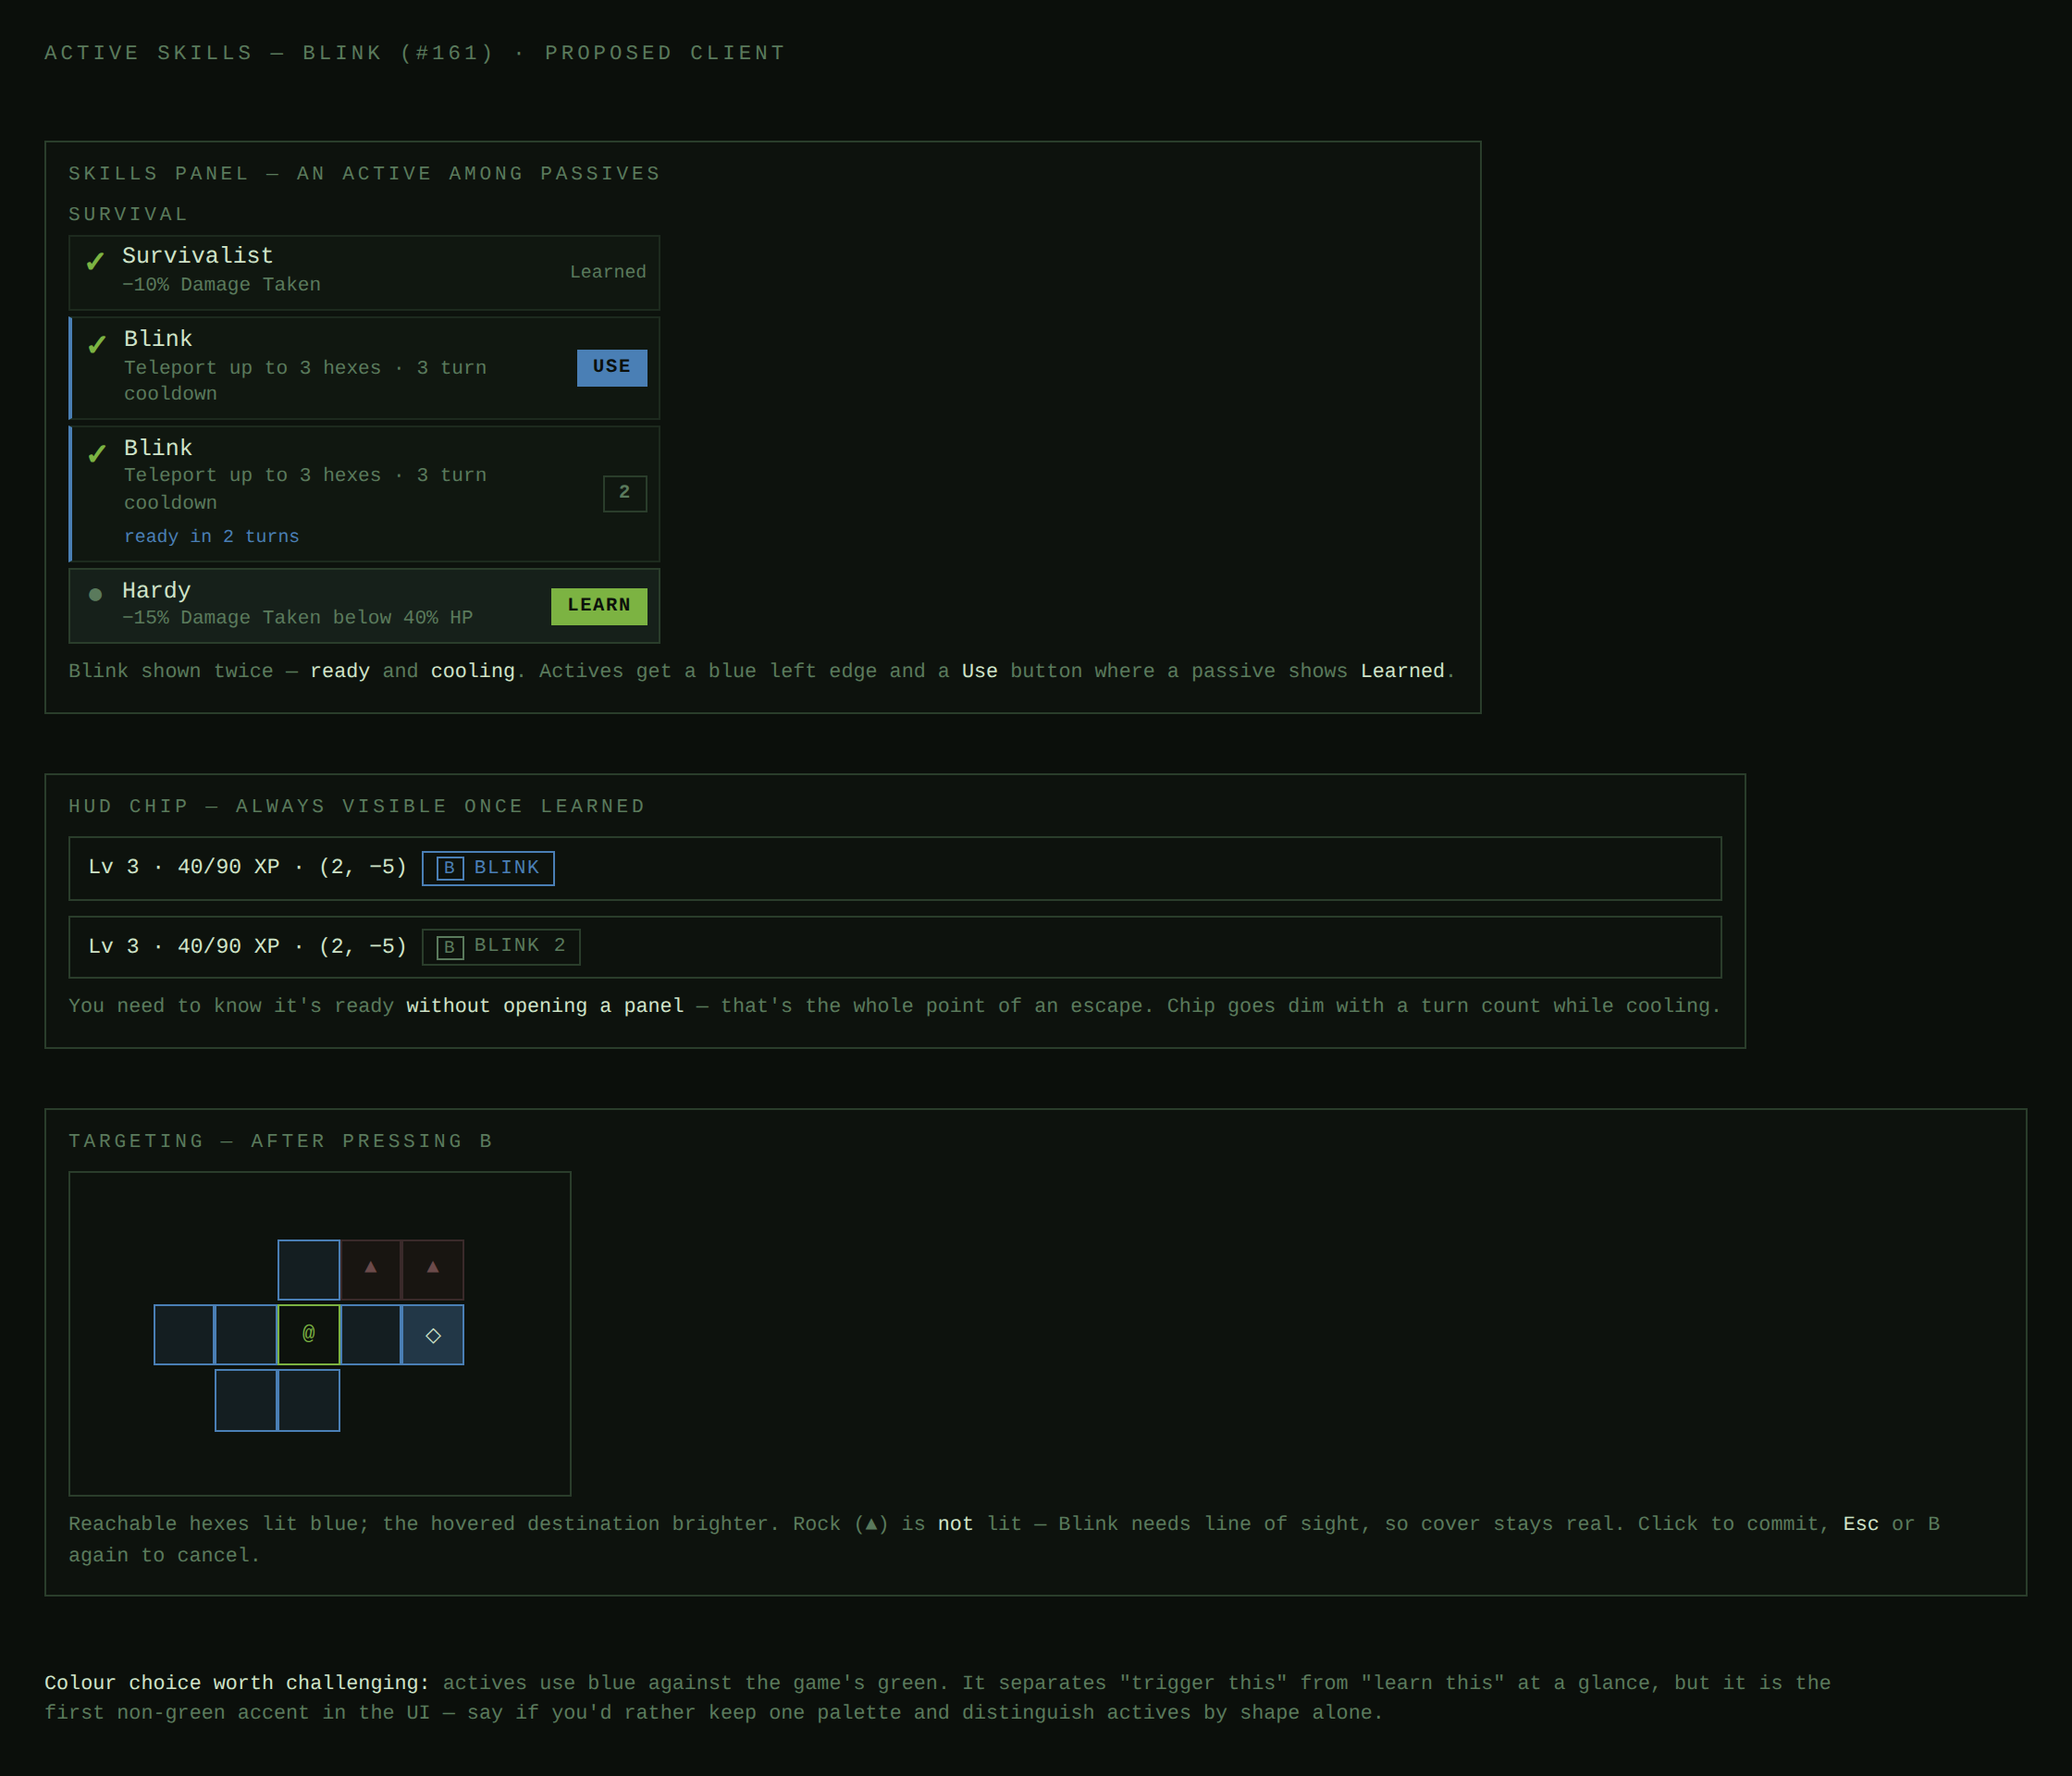
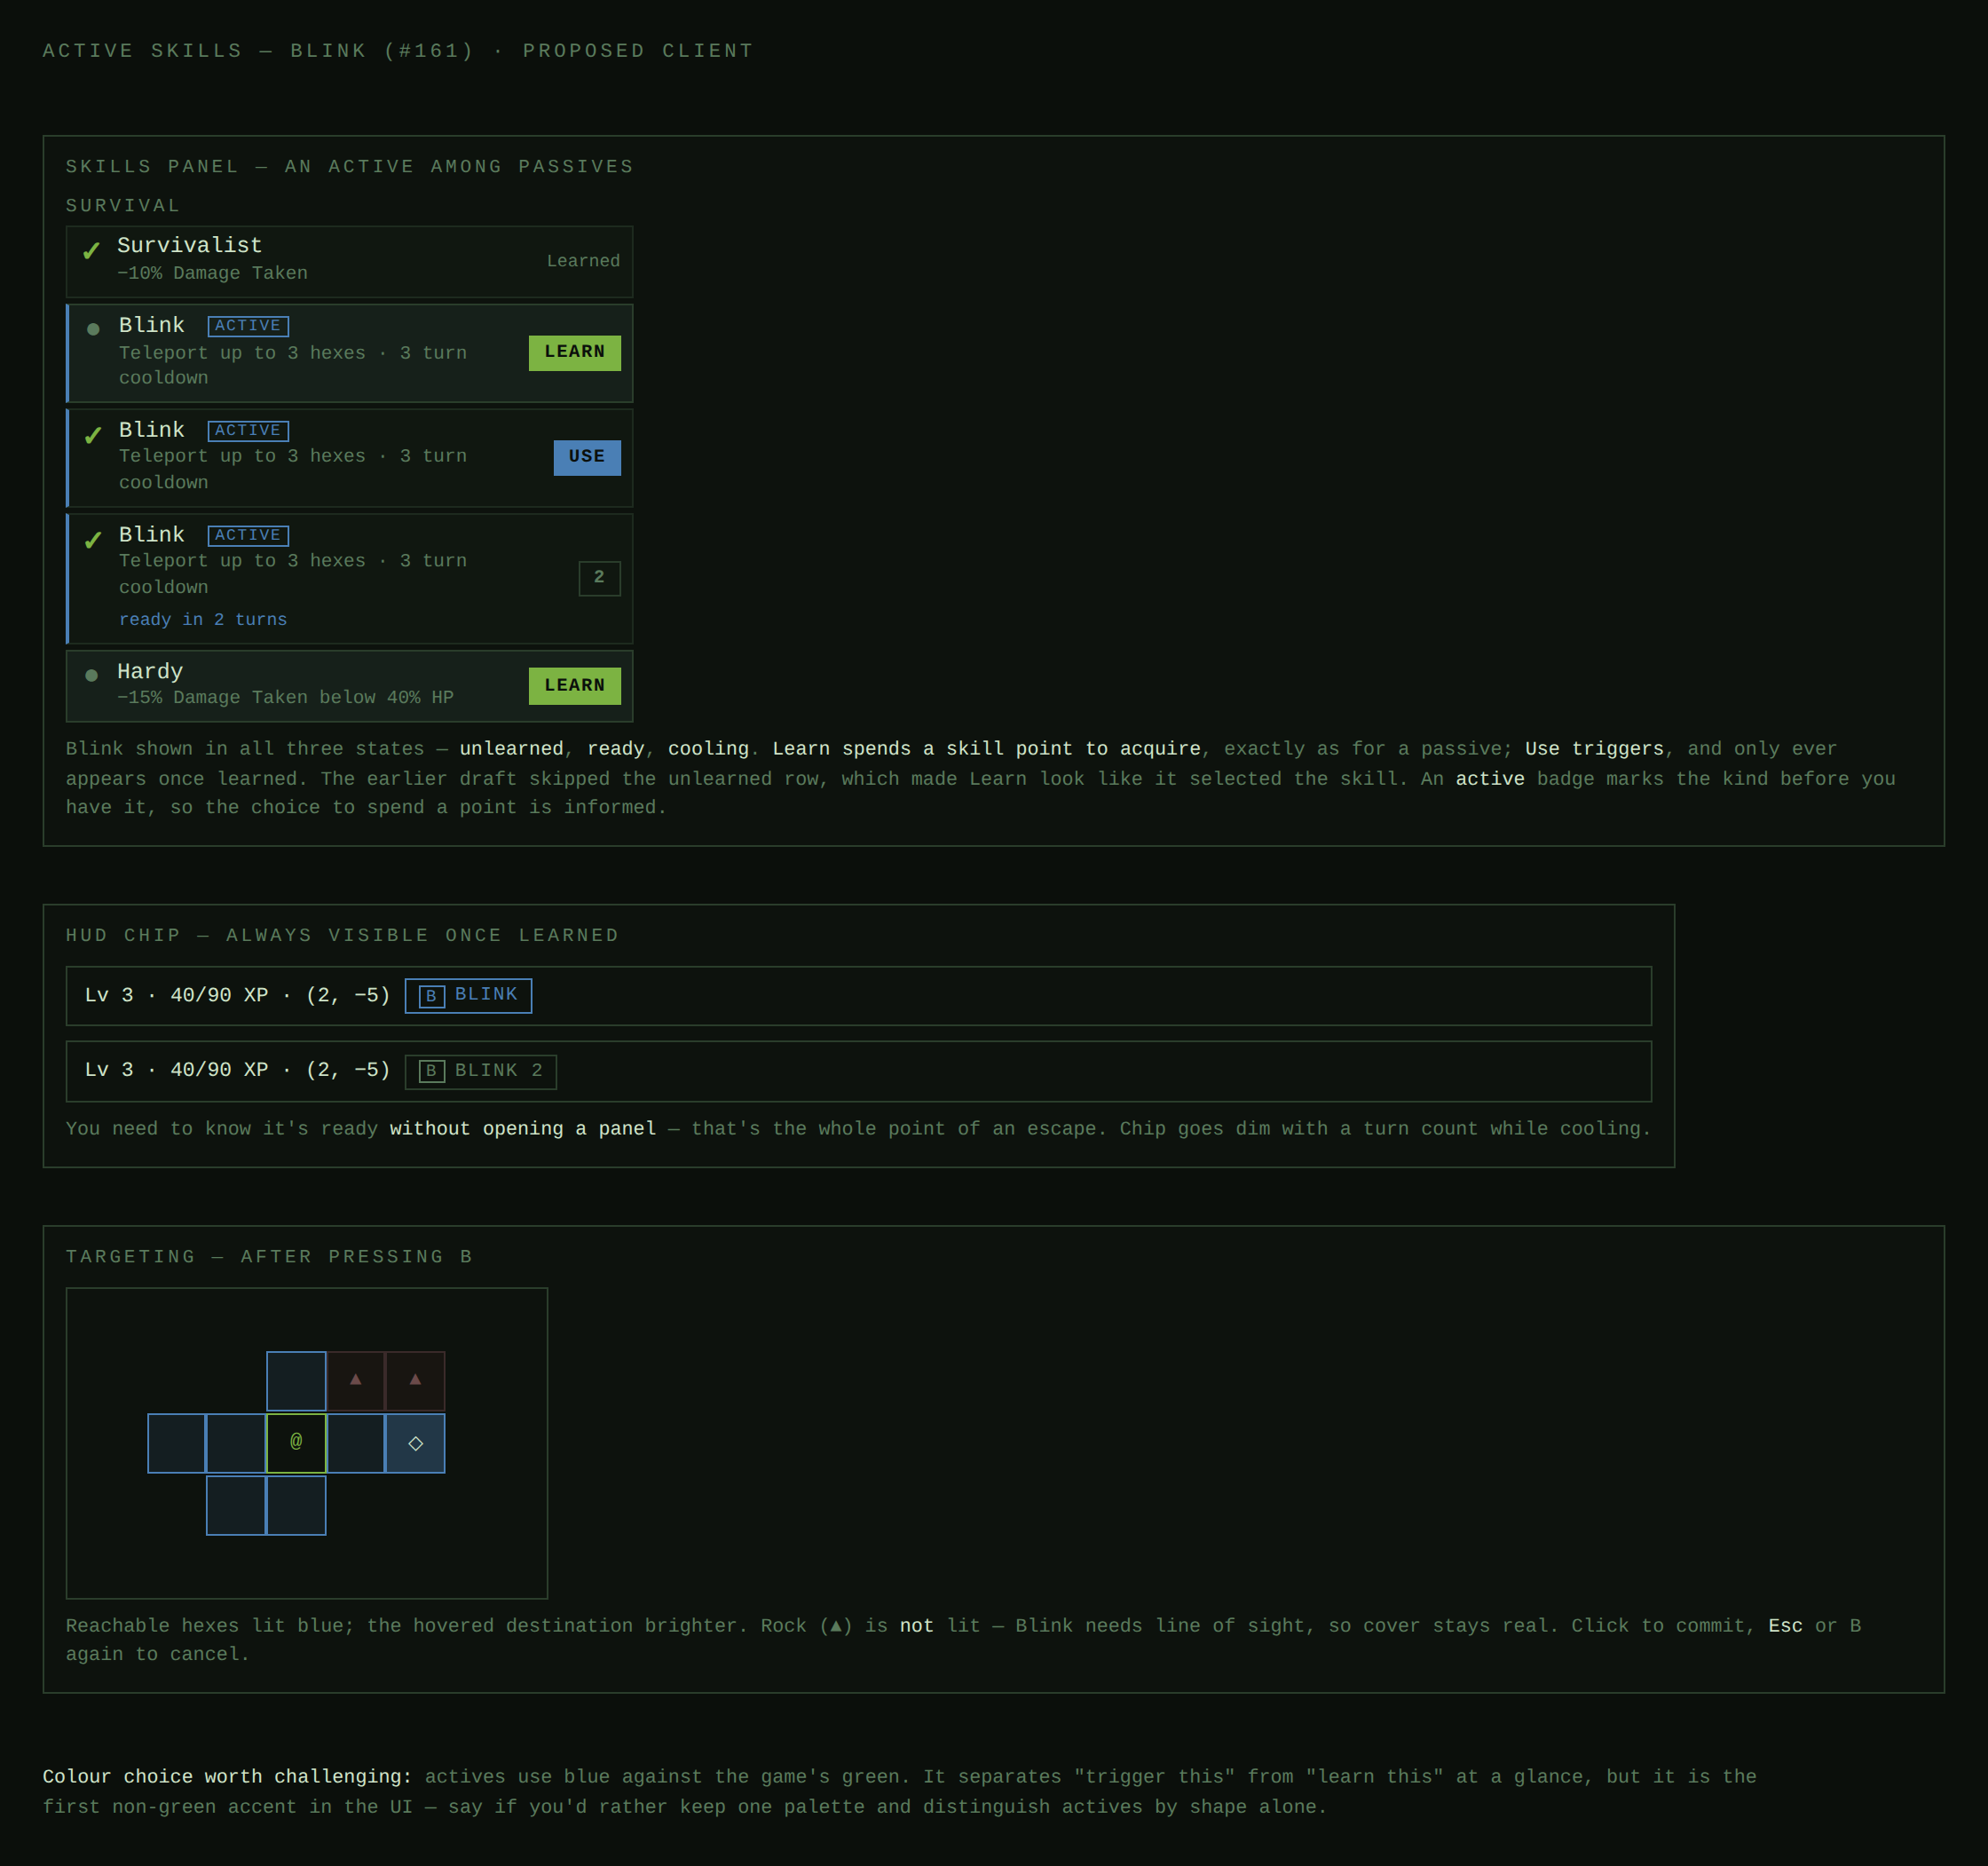
docs(mockup): show the unlearned active state (#161)
The first draft showed Blink only once learned, so its Use button sat where a
passive shows Learned — which read as if Learn SELECTED the skill. The
maintainer asked exactly that.

Now all three states: unlearned (Learn, same as any passive), ready (Use), and
cooling. An 'active' badge marks the kind BEFORE you own it, so spending a
point on a triggerable skill is an informed choice rather than a discovery.

diff --git a/docs/mockups/2026-07-19-active-skills-blink.html b/docs/mockups/2026-07-19-active-skills-blink.html
@@ -60,6 +60,11 @@
   }
   .skill-use:disabled { background: transparent; color: var(--dim); border-color: #2a3d2b; }
   .cooldown { font-size: 0.62rem; color: var(--cool); }
+  .badge {
+    font-size: 0.56rem; text-transform: uppercase; letter-spacing: 0.1em;
+    border: 1px solid var(--cool); color: var(--cool); padding: 0 0.22rem;
+    margin-left: 0.3rem; vertical-align: 0.08rem;
+  }
 
   /* HUD chip */
   .hud {
@@ -108,10 +113,19 @@
       <span class="skill-tag">Learned</span>
     </div>
 
+    <div class="skill-row active-skill">
+      <span class="skill-mark">●</span>
+      <span class="skill-body">
+        <span class="skill-name">Blink <span class="badge">active</span></span>
+        <span class="skill-desc">Teleport up to 3 hexes · 3 turn cooldown</span>
+      </span>
+      <button class="skill-learn">Learn</button>
+    </div>
+
     <div class="skill-row learned active-skill">
       <span class="skill-mark">✓</span>
       <span class="skill-body">
-        <span class="skill-name">Blink</span>
+        <span class="skill-name">Blink <span class="badge">active</span></span>
         <span class="skill-desc">Teleport up to 3 hexes · 3 turn cooldown</span>
       </span>
       <button class="skill-use">Use</button>
@@ -120,7 +134,7 @@
     <div class="skill-row learned active-skill">
       <span class="skill-mark">✓</span>
       <span class="skill-body">
-        <span class="skill-name">Blink</span>
+        <span class="skill-name">Blink <span class="badge">active</span></span>
         <span class="skill-desc">Teleport up to 3 hexes · 3 turn cooldown</span>
         <span class="cooldown">ready in 2 turns</span>
       </span>
@@ -137,8 +151,12 @@
     </div>
   </div>
   <div class="note">
-    Blink shown twice — <b>ready</b> and <b>cooling</b>. Actives get a blue left
-    edge and a <b>Use</b> button where a passive shows <b>Learned</b>.
+    Blink shown in all three states — <b>unlearned</b>, <b>ready</b>,
+    <b>cooling</b>. <b>Learn spends a skill point to acquire</b>, exactly as for
+    a passive; <b>Use triggers</b>, and only ever appears once learned. The
+    earlier draft skipped the unlearned row, which made Learn look like it
+    selected the skill. An <b>active</b> badge marks the kind before you have
+    it, so the choice to spend a point is informed.
   </div>
 </div>
 